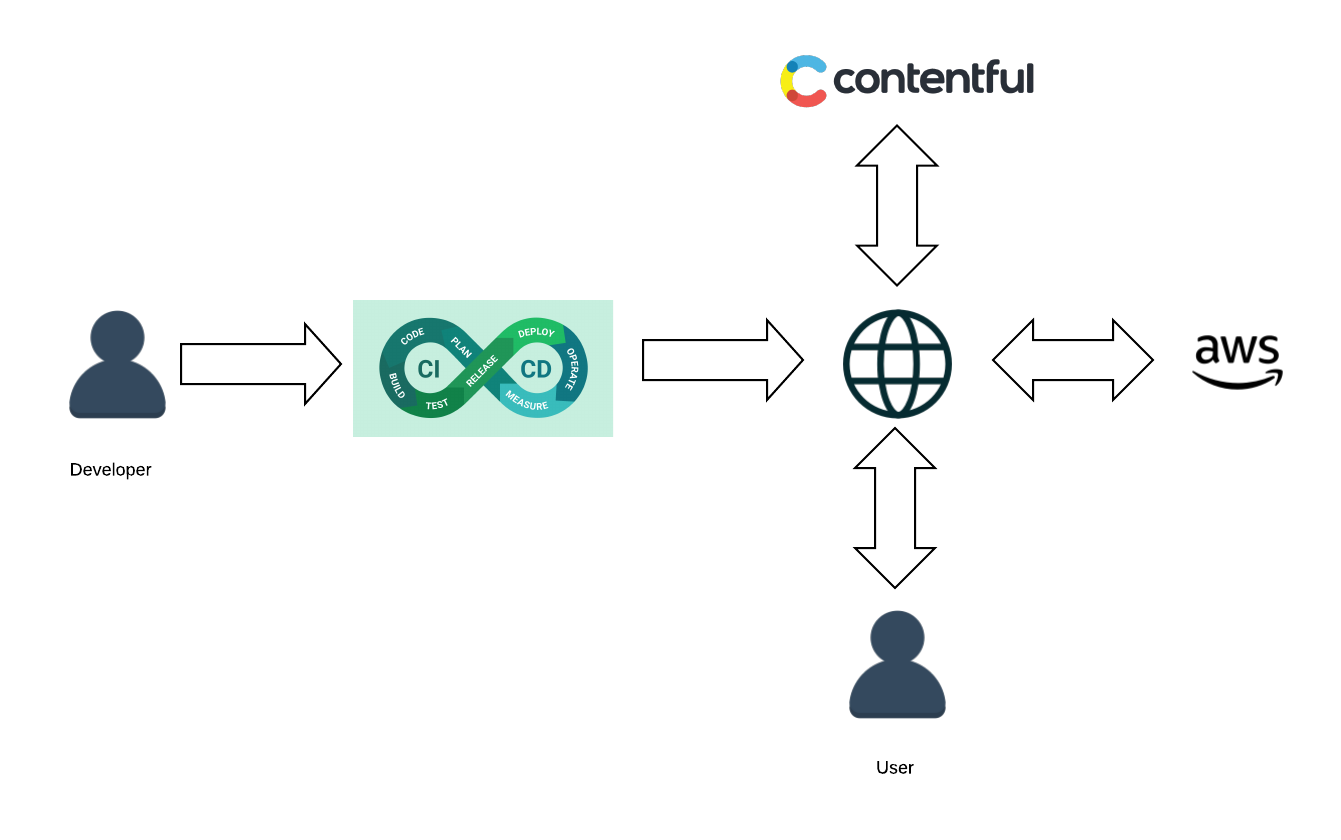
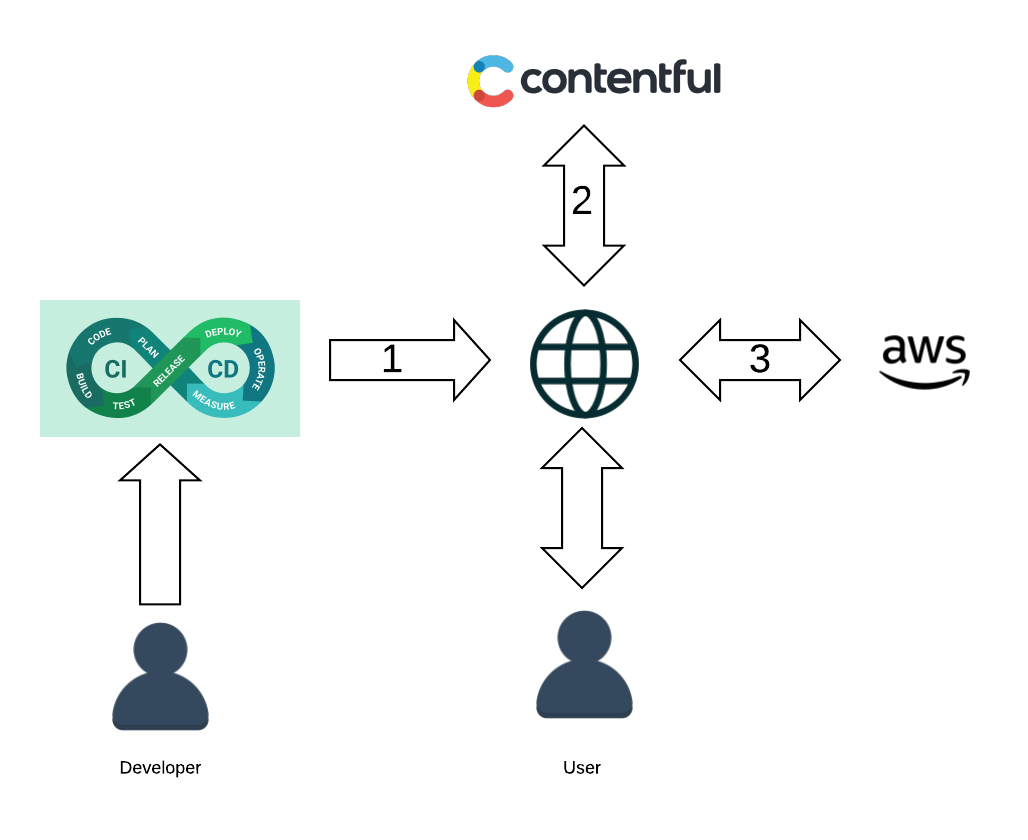
fix: add numbers to original flow, to illustrate which part is what

diff --git a/thesis/Chapters/Chapter1.tex b/thesis/Chapters/Chapter1.tex
@@ -39,15 +39,17 @@ Stampix takes advantage of CI/CD in their development workflows.
 \section{Initial state}
 
 \begin{figure}[h!]
-	\includegraphics[scale=0.25]{original_flow}
+	\includegraphics[scale=0.8]{original_flow}
 	\caption{The original flow of the web application}
 	\label{fig:original_flow}
 \end{figure}
 
 
-The inital state of the process this paper will investigate is a fairly typical web application. Developers write code which gets built and deployed by a CI/CD pipeline. The result are static files which are served by a webserver.
+The inital state of the process this paper will investigate is a fairly typical web application. 
+Developers write code which gets built and deployed by a CI/CD pipeline (1). The result are static files which are served by a webserver.
 
-Users who visit the site receive these static files, after which the application will perform API requests to a CMS which returns the necessary assets. The application will also send API requests to a backend (hosted on AWS) for completing business logic.
+Users who visit the site receive these static files, after which the application will perform API requests to a CMS which returns the necessary assets (2). 
+The application will also send API requests to a backend (hosted on AWS) for completing business logic (3).
 
 
 \section{Stampix}
